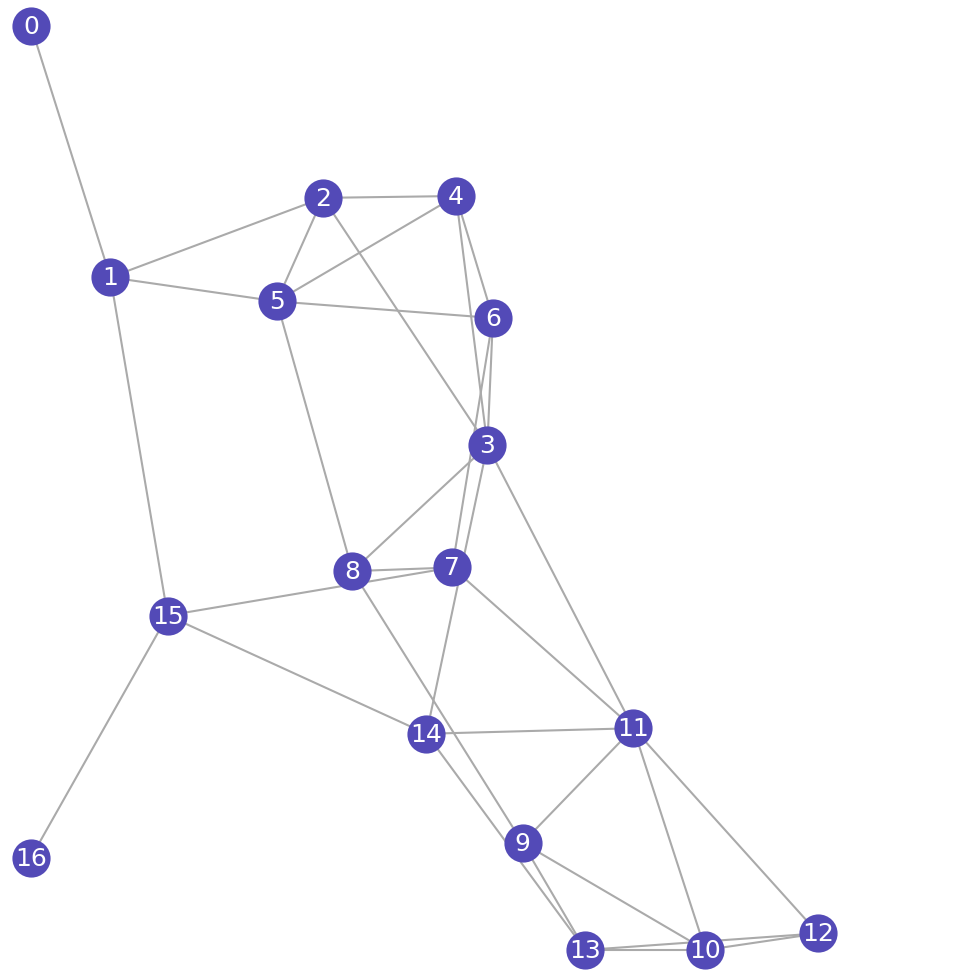
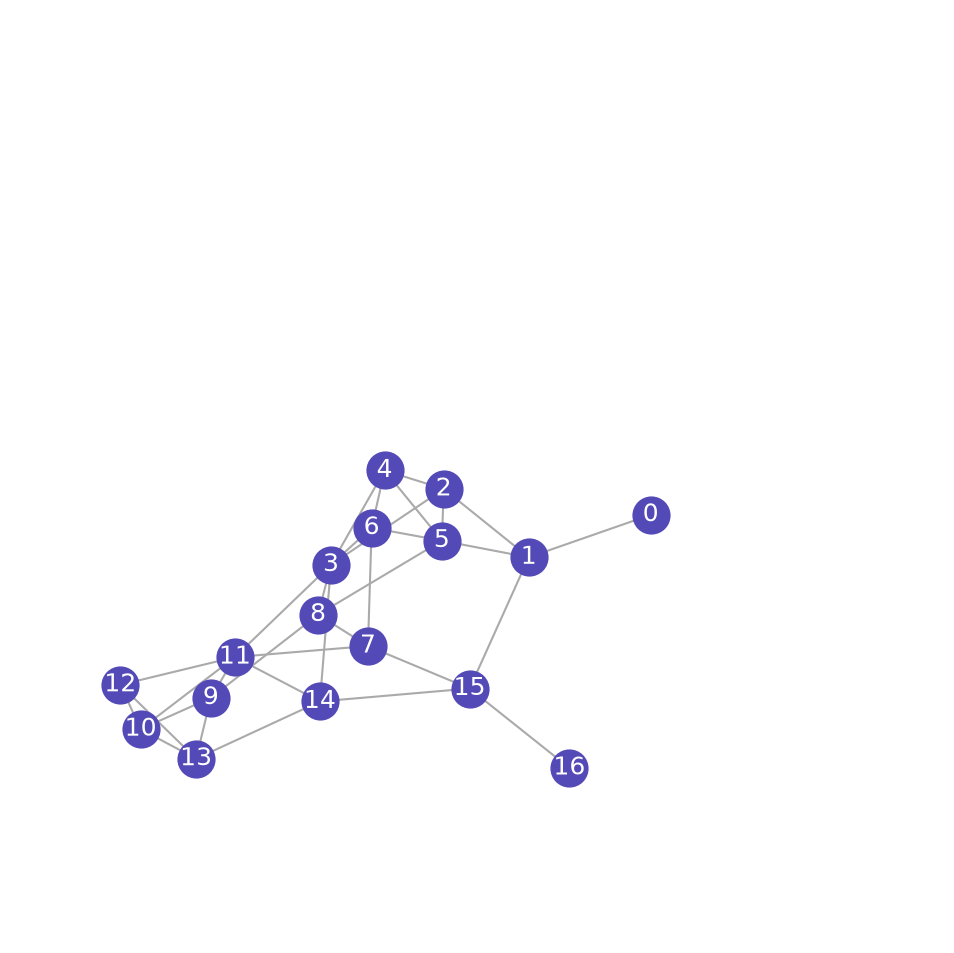
added new tileset to graph_to_tilemap

diff --git a/Project/graph_to_tilemap.py b/Project/graph_to_tilemap.py
@@ -1,0 +1,229 @@
+"""
+export_graph.py
+
+Exports your graph to:
+  1. graph.json       — the raw graph data
+  2. dungeon_map.tmj  — a ready-to-open Tiled map file
+
+Just open dungeon_map.tmj in Tiled. No Tiled scripting required.
+
+Node format:
+    Each node must have:
+      - "id"  : unique string or int identifier
+      - "x"   : tile-space X of the room's top-left corner
+      - "y"   : tile-space Y of the room's top-left corner
+      - "w"   : room width  in tiles  (optional, defaults to ROOM_W)
+      - "h"   : room height in tiles  (optional, defaults to ROOM_H)
+
+Edge format:
+    Each edge is a pair [source_id, target_id].
+"""
+
+import json
+
+# ── Configuration ─────────────────────────────────────────────────────────────
+
+ROOM_W      = 6  # default room width  (tiles)
+ROOM_H      = 7   # default room height (tiles)
+MAP_PADDING = 3    # empty tile border around the whole map
+TILE_SIZE   = 32  # pixels per tile
+
+# Tile IDs (1-based; 0 = empty).
+# Adjust to match your own tileset.
+TILE_EMPTY    = 0
+TILE_FLOOR    = 18
+TILE_WALL     = 19
+TILE_CORRIDOR = 18   # corridors use the same tile as floor
+
+# Output paths
+GRAPH_JSON_PATH = "graph.json"
+MAP_PATH        = "dungeon_map.tmj"
+
+# ── Your graph data ───────────────────────────────────────────────────────────
+# Replace these with your actual nodes and edges.
+
+nodes = [
+    {"id": "A", "x": 2,  "y": 2},
+    {"id": "B", "x": 14, "y": 2},
+    {"id": "C", "x": 2,  "y": 12},
+    {"id": "D", "x": 14, "y": 12},
+    {"id": "E", "x": 28, "y": 7, "w": 9, "h": 7},
+]
+
+edges = [
+    ["A", "B"],
+    ["A", "C"],
+    ["B", "D"],
+    ["C", "D"],
+    ["D", "E"],
+]
+
+# ── Normalise nodes ───────────────────────────────────────────────────────────
+
+for node in nodes:
+    node.setdefault("w", ROOM_W)
+    node.setdefault("h", ROOM_H)
+
+node_by_id = {str(n["id"]): n for n in nodes}
+
+# ── Step 1: Export graph.json ─────────────────────────────────────────────────
+
+with open(GRAPH_JSON_PATH, "w") as f:
+    json.dump({"nodes": nodes, "edges": edges}, f, indent=2)
+print(f"[1/2] Exported graph  → '{GRAPH_JSON_PATH}'")
+
+# ── Step 2: Build the tile grid ───────────────────────────────────────────────
+
+# Compute bounding box
+min_x = min(n["x"] for n in nodes)
+min_y = min(n["y"] for n in nodes)
+max_x = max(n["x"] + n["w"] for n in nodes)
+max_y = max(n["y"] + n["h"] for n in nodes)
+
+# Offset so all content fits inside the padded map
+origin_x = -min_x + MAP_PADDING
+origin_y = -min_y + MAP_PADDING
+map_w    = (max_x - min_x) + MAP_PADDING * 2
+map_h    = (max_y - min_y) + MAP_PADDING * 2
+
+# Initialise two flat tile arrays (row-major, length = map_w * map_h)
+corridors = [TILE_EMPTY] * (map_w * map_h)
+rooms     = [TILE_EMPTY] * (map_w * map_h)
+
+def idx(x, y):
+    return y * map_w + x
+
+def fill_rect(grid, x, y, w, h, tile_id):
+    for row in range(y, y + h):
+        for col in range(x, x + w):
+            if 0 <= col < map_w and 0 <= row < map_h:
+                grid[idx(col, row)] = tile_id
+
+def hollow_rect(grid, x, y, w, h, floor_id, wall_id):
+    fill_rect(grid, x, y, w, h, floor_id)             # interior floor
+    fill_rect(grid, x,         y,         w, 1, wall_id)  # top
+    fill_rect(grid, x,         y + h - 1, w, 1, wall_id)  # bottom
+    fill_rect(grid, x,         y,         1, h, wall_id)  # left
+    fill_rect(grid, x + w - 1, y,         1, h, wall_id)  # right
+
+def draw_l_corridor(grid, ax, ay, bx, by, tile_id):
+    """Horizontal from (ax,ay) to (bx,ay), then vertical to (bx,by)."""
+    for col in range(min(ax, bx), max(ax, bx) + 1):   # horizontal segment
+        if 0 <= col < map_w and 0 <= ay < map_h:
+            grid[idx(col, ay)] = tile_id
+    for row in range(min(ay, by), max(ay, by) + 1):   # vertical segment
+        if 0 <= bx < map_w and 0 <= row < map_h:
+            grid[idx(bx, row)] = tile_id
+
+# Paint corridors
+for id_a, id_b in edges:
+    a = node_by_id.get(str(id_a))
+    b = node_by_id.get(str(id_b))
+    if not a or not b:
+        print(f"  Warning: edge [{id_a}, {id_b}] references unknown node – skipped.")
+        continue
+    cax = a["x"] + a["w"] // 2 + origin_x
+    cay = a["y"] + a["h"] // 2 + origin_y
+    cbx = b["x"] + b["w"] // 2 + origin_x
+    cby = b["y"] + b["h"] // 2 + origin_y
+    draw_l_corridor(corridors, cax, cay, cbx, cby, TILE_CORRIDOR)
+
+# Paint rooms (hollow rectangles)
+for n in nodes:
+    hollow_rect(
+        rooms,
+        n["x"] + origin_x,
+        n["y"] + origin_y,
+        n["w"], n["h"],
+        TILE_FLOOR, TILE_WALL
+    )
+
+# ── Step 3: Build the Tiled JSON map structure ────────────────────────────────
+
+tiled_map = {
+    "version": "1.10",
+    "tiledversion": "1.10.2",
+    "type": "map",
+    "orientation": "orthogonal",
+    "renderorder": "right-down",
+    "width": map_w,
+    "height": map_h,
+    "tilewidth": TILE_SIZE,
+    "tileheight": TILE_SIZE,
+    "infinite": False,
+    "nextlayerid": 3,
+    "nextobjectid": 1,
+    # list o f tilesets
+    "tilesets": [
+        {
+            "firstgid": 1,
+            "name": "RoomTileset",
+            "tilewidth": TILE_SIZE,
+            "tileheight": TILE_SIZE,
+            "spacing": 0,
+            "margin": 0,
+            "tilecount": 20,
+            "columns": 4,
+            "imagewidth": TILE_SIZE * 4,
+            "imageheight": TILE_SIZE * 5,
+            # tileset image
+            "image": "data/sprites/tile_textures.png",
+        },
+        {
+            "firstgid": 2,
+            "name": "RoomTileset",
+            "tilewidth": TILE_SIZE * 2,
+            "tileheight": TILE_SIZE * 2,
+            "spacing": 0,
+            "margin": 0,
+            "tilecount": 20,
+            "columns": 4,
+            "imagewidth": TILE_SIZE * 2,
+            "imageheight": TILE_SIZE * 10,
+            "image": "data/sprites/puddles.png",
+        }
+    ],
+    "layers": [
+        {
+            "id": 1,
+            "name": "Floor",
+            "type": "tilelayer",
+            "x": 0, "y": 0,
+            "width": map_w,
+            "height": map_h,
+            "visible": True,
+            "opacity": 1,
+            "data": corridors,
+        },
+        {
+            "id": 2,
+            "name": "Wall",
+            "type": "tilelayer",
+            "x": 0, "y": 0,
+            "width": map_w,
+            "height": map_h,
+            "visible": True,
+            "opacity": 1,
+            "data": rooms,
+        },
+        {
+            "id": 3,
+            "name": "Puddle",
+            "type": "tilelayer",
+            "x": 0, "y": 0,
+            "width": map_w,
+            "height": map_h,
+            "visible": True,
+            "opacity": 1,
+            "data": rooms,
+        },
+    ],
+}
+
+with open(MAP_PATH, "w") as f:
+    json.dump(tiled_map, f, indent=2)
+
+print(f"[2/2] Generated map   → '{MAP_PATH}'")
+print(f"      Map size: {map_w} × {map_h} tiles")
+print(f"      Rooms: {len(nodes)}  |  Corridors: {len(edges)}")
+print(f"\nOpen '{MAP_PATH}' directly in Tiled.")

diff --git a/Project/generation_test.py b/Project/generation_test.py
@@ -98,7 +98,7 @@ def fruchterman_reingold(edges, num_nodes, width, height, iterations):
     save_png(E, positions, 500, 300, "graph_original.png", 150)    
     
     area = width * height
-    ideal_dist = math.sqrt(area/(num_nodes*2))
+    ideal_dist = math.sqrt(area/(num_nodes*10))
 
     temperature = width / 10.0
     cooling = temperature / (iterations + 1)
@@ -109,7 +109,7 @@ def fruchterman_reingold(edges, num_nodes, width, height, iterations):
     
         displacement = repulsive_f(num_nodes, ideal_dist, positions, displacement)
         displacement = attractive_f(edges, ideal_dist, positions, displacement)
-        displacement = gravity_f(num_nodes, positions, displacement, width, height, gravity=0.03)
+        displacement = gravity_f(num_nodes, positions, displacement, width, height, gravity=0.1)
 
         for node in range(num_nodes):
             dx, dy = displacement[node]
